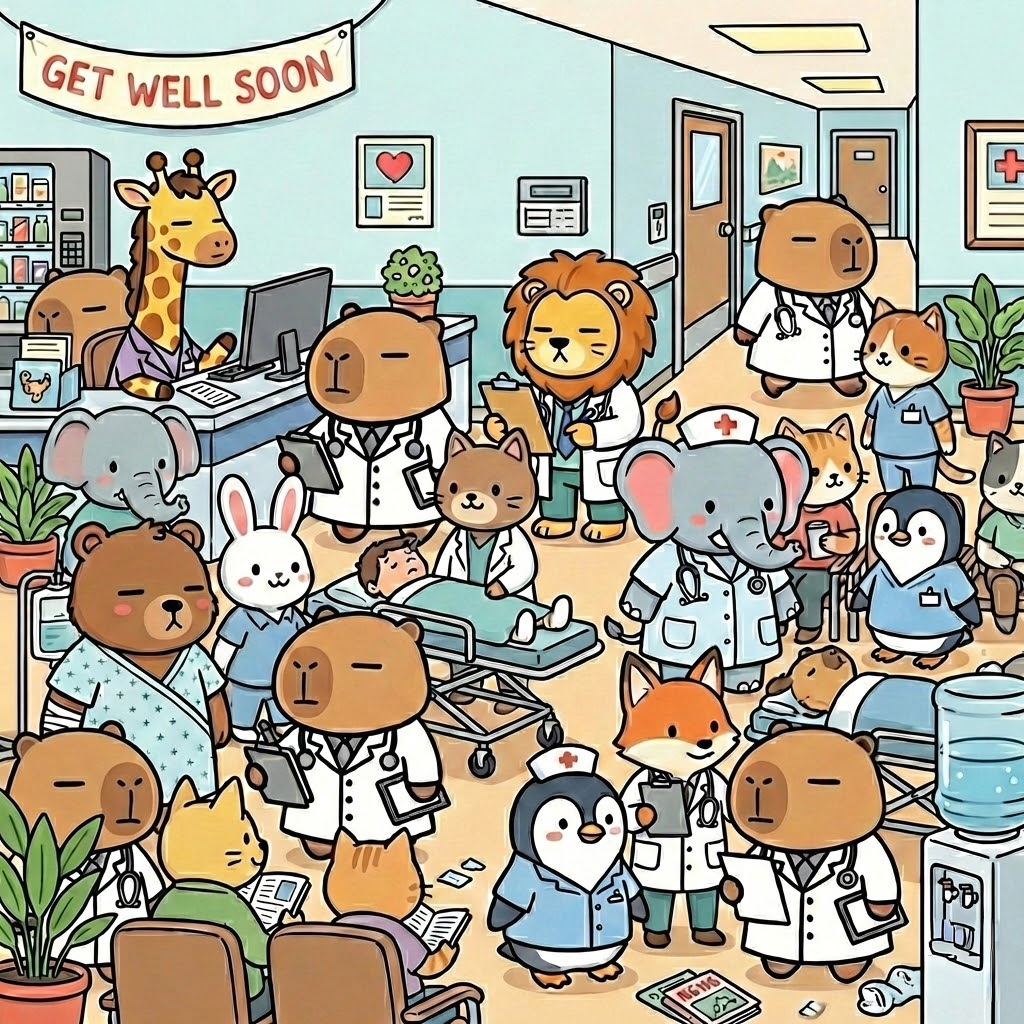
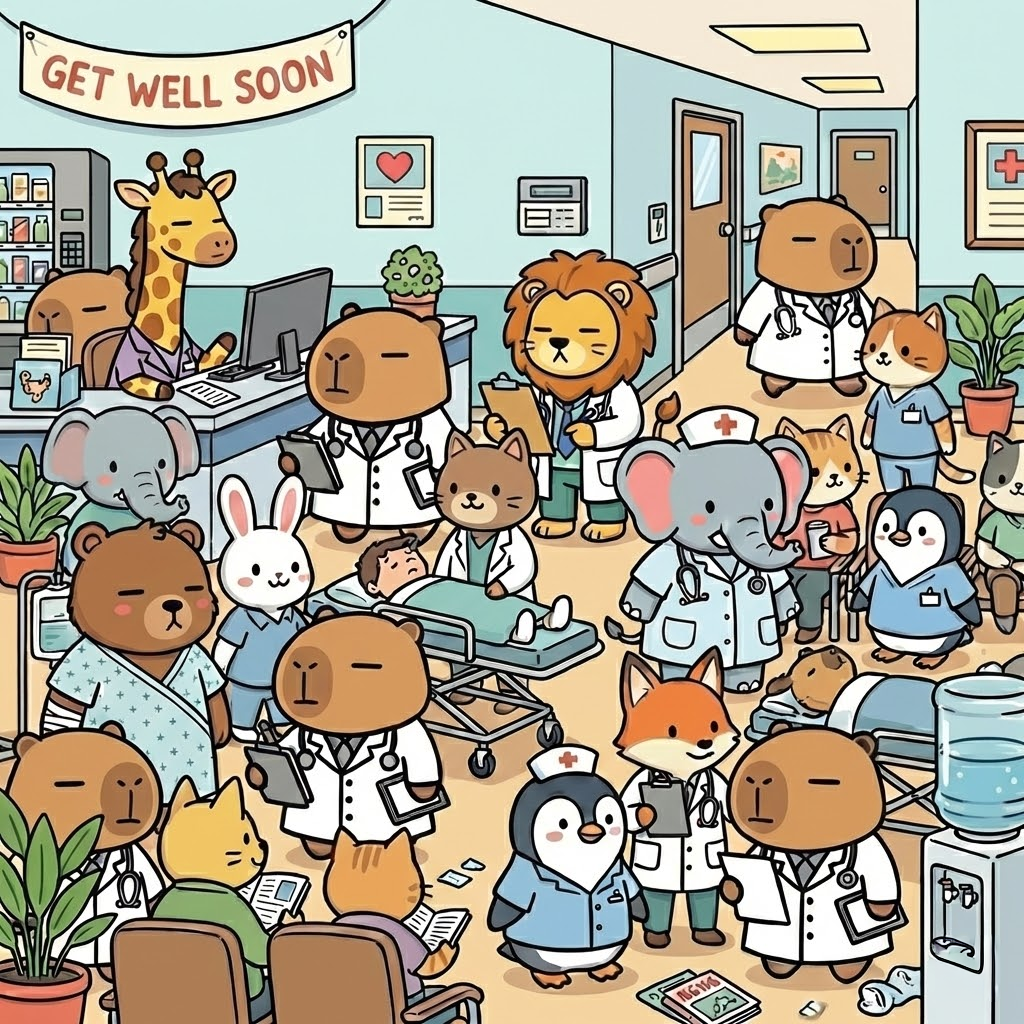
숨은그림찾기 배포

diff --git a/lib/game/models/hidden_picture_data.dart b/lib/game/models/hidden_picture_data.dart
@@ -111,7 +111,7 @@ class HiddenSpot {
 
 /// 숨은그림찾기 스테이지 데이터
 class HiddenPictureStage {
-  final int stage; // 스테이지 (1~9)
+  final int stage; // 스테이지 (1~10)
   final String image; // 이미지 경로
   final List<HiddenSpot> spots; // 숨은 그림 위치들
   final int timeLimit; // 시간 제한 (초)
@@ -135,8 +135,8 @@ class HiddenPictureDataManager {
   factory HiddenPictureDataManager() => _instance;
   HiddenPictureDataManager._internal();
 
-  /// 스테이지 개수 (1~9)
-  static const int totalStages = 9;
+  /// 스테이지 개수 (1~10)
+  static const int totalStages = 10;
 
   /// 시간 제한 (모든 스테이지 동일)
   static const int timeLimit = 90; // 1분 30초 (90초)
@@ -173,13 +173,15 @@ class HiddenPictureDataManager {
       case 5:
         return 'assets/capybara/blue2.webp';
       case 6:
-        return 'assets/capybara/black3.webp';
+        return 'assets/capybara/cook1.webp';
       case 7:
-        return 'assets/capybara/blue1.webp';
+        return 'assets/capybara/cook2.webp';
       case 8:
-        return 'assets/capybara/brown1.webp';
+        return 'assets/capybara/darkGrey2.webp';
       case 9:
-        return 'assets/capybara/brown2.webp';
+        return 'assets/capybara/docter2.webp';
+      case 10:
+        return 'assets/capybara/grey1.webp';
       default:
         return 'assets/capybara/blue3.webp'; // 기본값
     }
@@ -224,7 +226,7 @@ class HiddenPictureDataManager {
     return stages;
   }
 
-  /// 다음 스테이지 ID 계산 (1 → 2 → 3 → 4 → 5 → 6 → 7 → 8 → 9 → null)
+  /// 다음 스테이지 ID 계산 (1 → 2 → 3 → 4 → 5 → 6 → 7 → 8 → 9 → 10 → null)
   static int? getNextStageId(int currentStage) {
     if (currentStage >= 1 && currentStage < totalStages) {
       return currentStage + 1;
@@ -232,7 +234,7 @@ class HiddenPictureDataManager {
     return null; // 마지막 스테이지
   }
 
-  /// 이전 스테이지 ID 계산 (9 → 8 → 7 → 6 → 5 → 4 → 3 → 2 → 1 → null)
+  /// 이전 스테이지 ID 계산 (10 → 9 → 8 → 7 → 6 → 5 → 4 → 3 → 2 → 1 → null)
   static int? getPreviousStageId(int currentStage) {
     if (currentStage > 1 && currentStage <= totalStages) {
       return currentStage - 1;

diff --git a/lib/data/hidden_progress_manager.dart b/lib/data/hidden_progress_manager.dart
@@ -6,7 +6,7 @@ class HiddenProgressManager {
   static const String _keyPrefix = 'hidden_progress_';
   static const String _keyCurrentStage = 'hidden_current_stage';
 
-  /// 현재 진행 중인 스테이지 저장 (1~9)
+  /// 현재 진행 중인 스테이지 저장 (1~10)
   static Future<void> saveCurrentStage(int stageId) async {
     final prefs = await SharedPreferences.getInstance();
     await prefs.setInt(_keyCurrentStage, stageId);
@@ -49,12 +49,12 @@ class HiddenProgressManager {
     return prefs.getBool('$_keyPrefix$stageId') ?? false;
   }
 
-  /// 다음 스테이지 ID 계산 (1 → 2 → 3 → ... → 9 → null)
+  /// 다음 스테이지 ID 계산 (1 → 2 → 3 → ... → 10 → null)
   static int? getNextStageId(int currentStage) {
     return HiddenPictureDataManager.getNextStageId(currentStage);
   }
 
-  /// 이전 스테이지 ID 계산 (9 → 8 → 7 → ... → 1 → null)
+  /// 이전 스테이지 ID 계산 (10 → 9 → 8 → ... → 1 → null)
   static int? getPreviousStageId(int currentStage) {
     return HiddenPictureDataManager.getPreviousStageId(currentStage);
   }

diff --git a/lib/ui/screens/hidden_picture_screen.dart b/lib/ui/screens/hidden_picture_screen.dart
@@ -13,7 +13,7 @@ import '../../l10n/app_localizations.dart';
 
 /// 숨은그림찾기 게임 화면
 class HiddenPictureScreen extends StatefulWidget {
-  final int? stageId; // 특정 스테이지 ID (1~9)
+  final int? stageId; // 특정 스테이지 ID (1~10)
   final bool isSequentialMode; // 순차 진행 모드 여부
 
   const HiddenPictureScreen({
